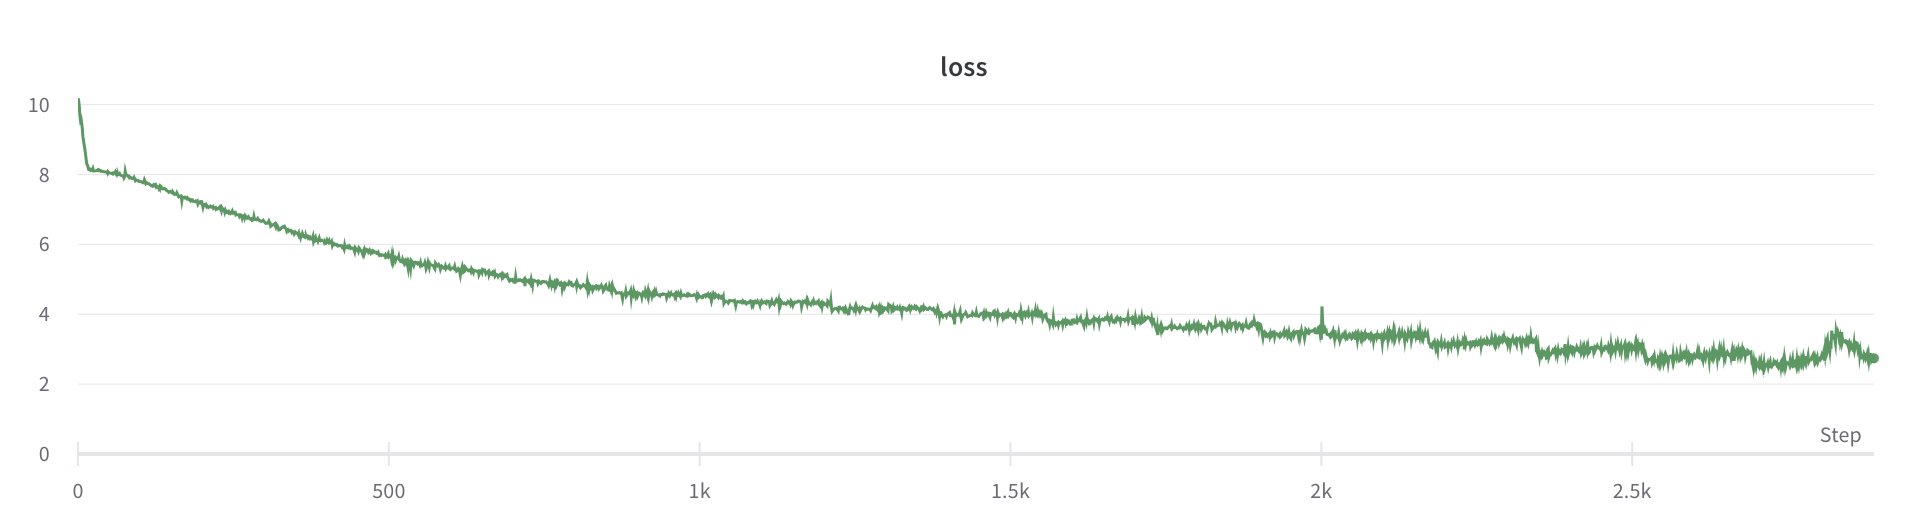
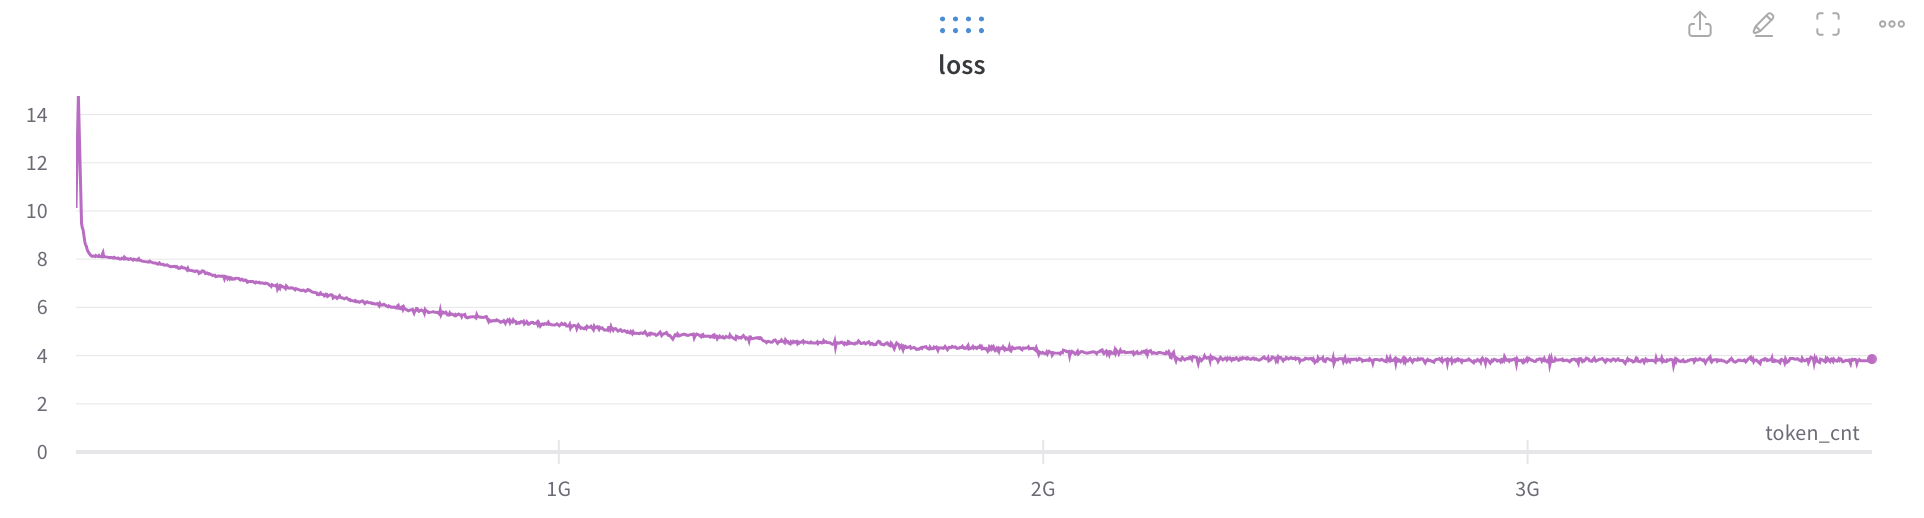
retrain zhwiki 2.46B

diff --git a/README.md b/README.md
@@ -71,7 +71,7 @@ python3 -m llm.train --project=llm_zhwiki --data_dir=/mnt/llm/data/zhwiki --toke
 
 # inference
 python3 -m llm.inference --checkpoint_dir=/mnt/llm_zhwiki/step={}_loss={} --tokenizer_model_file=/mnt/llm/tokenizer/zhwiki_16000.model --prompt='在越来越现代的社会里，科学其实是无处不在的，它随时随地与我们日常生活的一切，与我们所有人密切相关' --max_new_tokens=16
-# 。前世唯有宗教在东方亚述教会中深受循道宗
+# 。谎言的完整性和启蒙爱被看作是一种理性的伦理
 ```
 
 ![loss](images/llm_zhwiki_loss.png)
